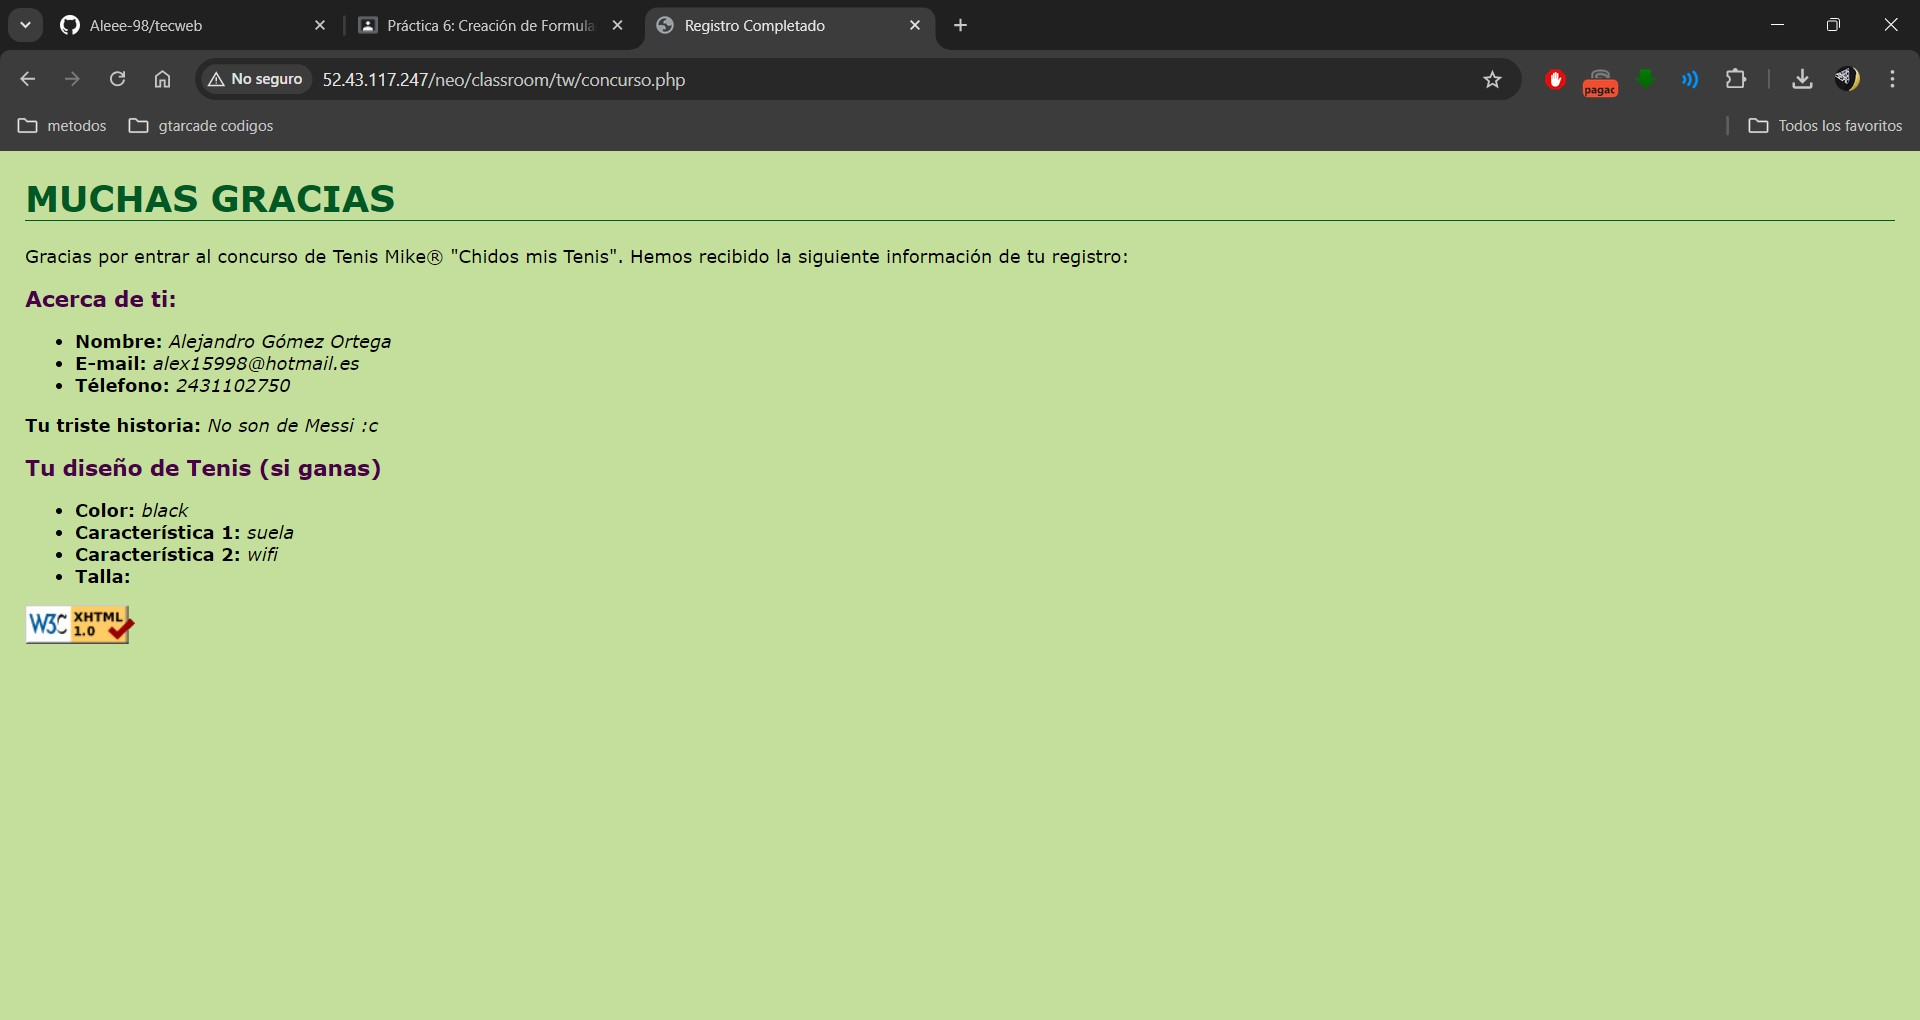
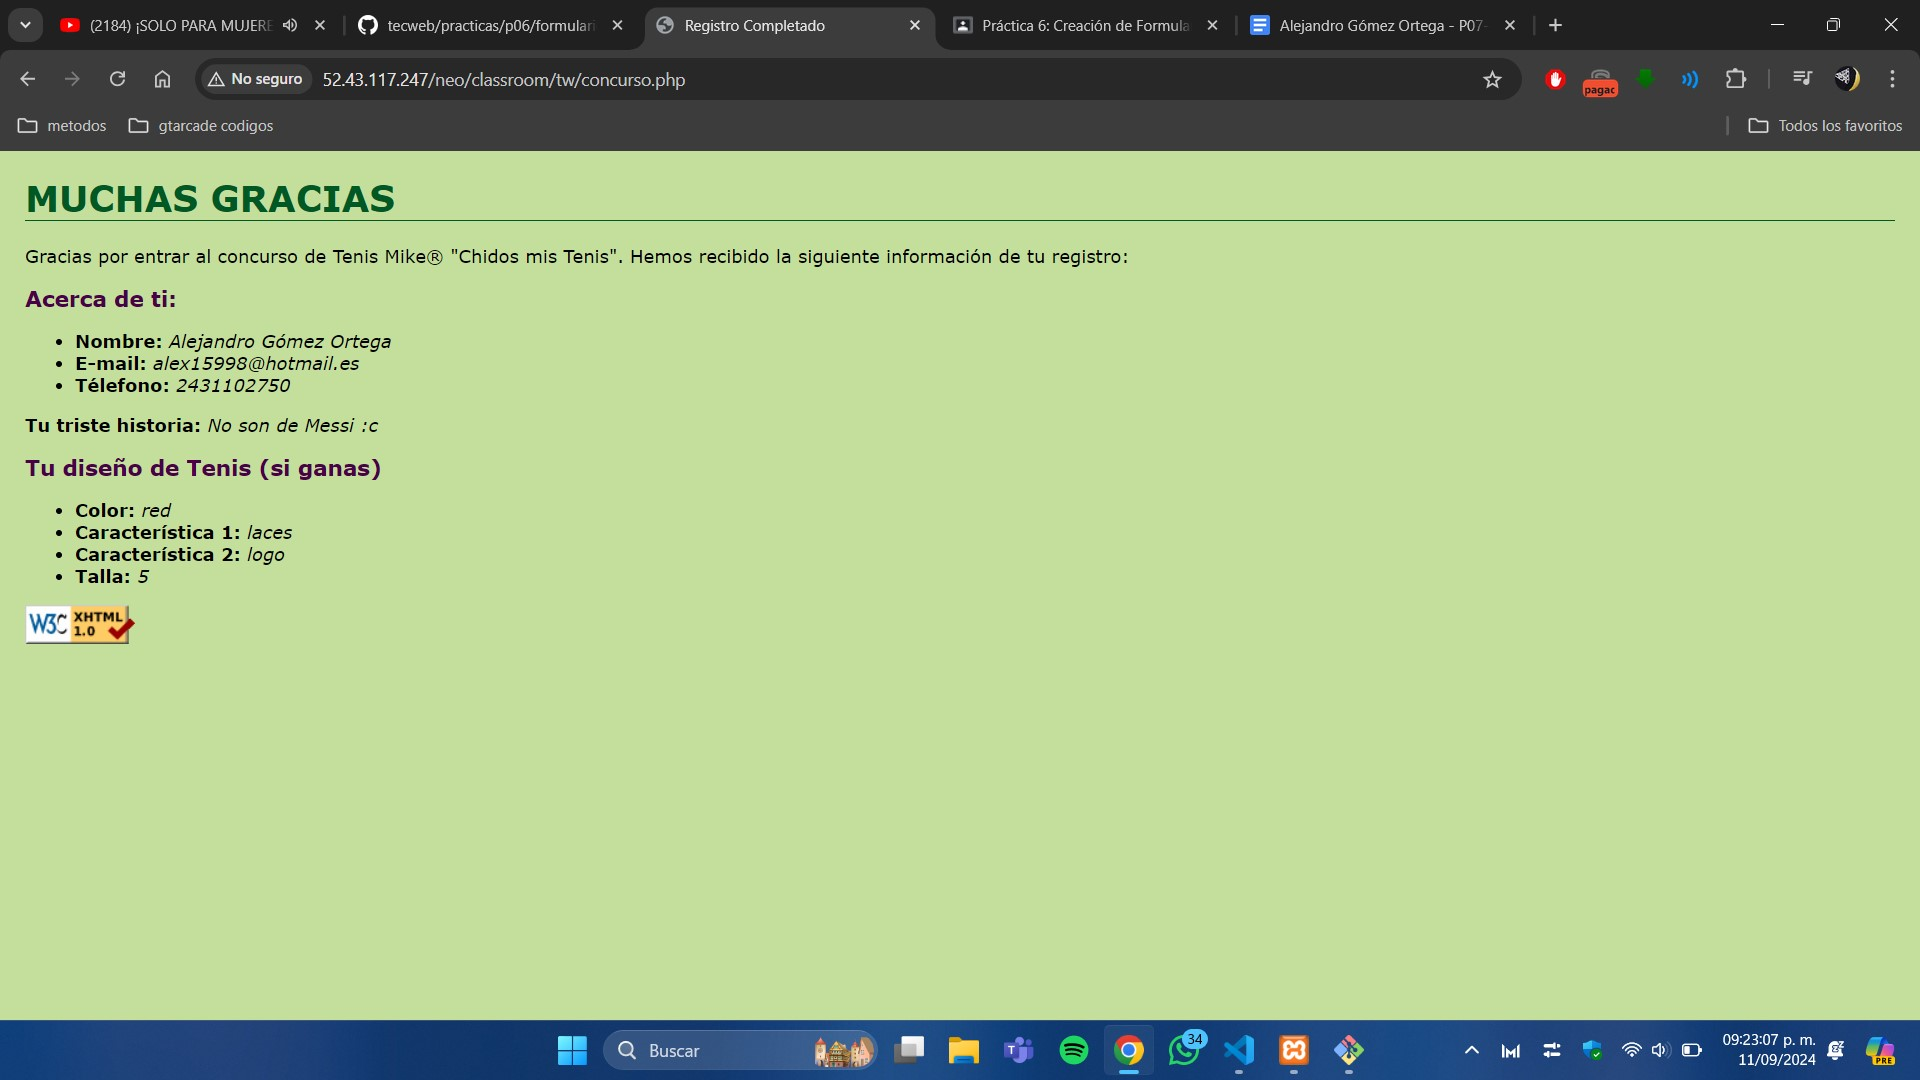
P6 corrección

diff --git a/practicas/p06/formulario.html b/practicas/p06/formulario.html
@@ -70,20 +70,22 @@
       </ul>
     </fieldset>
     <fieldset>
-      <legend>Talla</legend>
-      <p>Las medidas reflejan el estándar masculino:</p>
-      <select id="talla" name="talla">
-          <option value="3">3</option>
-          <option value="4">4</option>
-          <option value="5">5</option>
-          <option value="6">6</option>
-          <option value="7">7</option>
-          <option value="8">8</option>
-          <option value="9">9</option>
-          <option value="10">10</option>
-          <option value="11">11</option>
+      <legend><p>Talla</p></legend>
+      <p>Las medidas reflejan el estándar masculino:
+      
+      <select name= "size">
+        <option  value="3">3</option>
+        <option  value="4">4</option>
+        <option  value="5">5</option>
+        <option  value="6">6</option>
+        <option  value="7">7</option>
+        <option  value="8">8</option>
+        <option  value="9">9</option>
+        <option  value="10">10</option>
+        <option  value="11">11</option></p>
       </select>
-  </fieldset><br>
+    </fieldset>
+  
     <p><input type="submit">
        <input type="reset"></p>
     

diff --git a/practicas/p07/index.php b/practicas/p07/index.php
@@ -1,106 +1,29 @@
 <!DOCTYPE html>
 <html lang="es">
 <head>
-    <meta charset="utf-8">
-    <title>Práctica 7</title>
+<meta charset="utf-8" >
+    <title>Practica 7</title>
     <style type="text/css">
         ol, ul { 
-            list-style-type: none;
-        }
-        
-        body {
-            background-color: #66bce9;
-            margin: 5%;
-            font-family: 'Times New Roman', Times, serif;
-        }
-
-        h1 {
-            text-align: center;
-            font-family: Helvetica;
-            font-weight: normal;
-            text-transform: uppercase;
-            color: #e8edef;
-            border-bottom: 1px solid #43bff0;
-            margin-top: 30px;
-        }
-
-        form {
-            background-color: #ffffff;
-            padding: 20px;
-            border-radius: 8px;
-            box-shadow: 0px 0px 10px rgba(0, 0, 0, 0.1);
-        }
-
-        label {
-            display: block;
-            margin-bottom: 8px;
-            color: #333333;
-        }
-
-        input[type="text"] {
-            width: calc(100% - 22px);
-            padding: 10px;
-            border: 1px solid #cccccc;
-            border-radius: 4px;
-            margin-bottom: 10px;
-        }
-
-        button {
-            background-color: #43bff0;
-            color: #ffffff;
-            border: none;
-            padding: 10px 20px;
-            border-radius: 4px;
-            cursor: pointer;
-        }
-
-        button:hover {
-            background-color: #3399cc;
-        }
-
-        table {
-            width: 100%;
-            border-collapse: collapse;
-            margin-top: 20px;
-        }
-
-        th, td {
-            border: 1px solid #dddddd;
-            padding: 8px;
-            text-align: left;
-        }
-
-        th {
-            background-color: #43bff0;
-            color: #ffffff;
-        }
-
-        tr:nth-child(even) {
-            background-color: #f2f2f2;
-        }
-
-        h2, h3, h4 {
-            color: #333333;
-            margin-top: 20px;
-        }
-
-        p {
-            line-height: 1.6;
-            margin-bottom: 20px;
-        }
-
-        fieldset {
-            border: 2px solid #43bff0;
-            padding: 20px;
-            border-radius: 8px;
-            margin-bottom: 20px;
-        }
-
-        legend {
-            font-weight: bold;
-            color: #43bff0;
+      list-style-type: none;
         }
     </style>
+    <style>
+    body{
+      background-color: #66bce9;
+      margin: 5%;
+      font-family: 'Times New Roman', Times, serif;     
+  }
+  h1{
+      text-align: center;
+      font-family: Helvetica;
+      font-weight: normal;
+      text-transform: uppercase;
+      color: #e8edef;
+      border-bottom: 1px solid #43bff0;
+      margin-top: 30px;
+  }
+  </style>        
 </head>
 <body>
 
